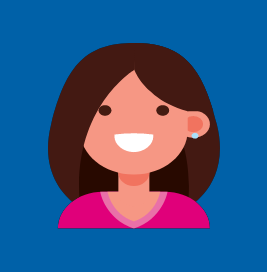
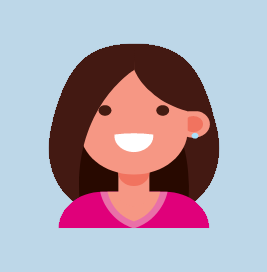
update 3

diff --git a/RouteProject/about.html b/RouteProject/about.html
@@ -45,11 +45,16 @@
                     </ul>
                 </div>
             </nav>
+        </div>
+    </header>
+    <!------------------------ End Header ------------------------>
 
-            <div class="header-content my-5 py-2">
+    <section>
+        <div class="container">
+            <div class="content my-5 py-2">
                 <div class="row">
                     <div class="col-lg-7">
-                        <div class="header-info">
+                        <div class="content-info">
                             <h2 class="main-color mb-4">Symploms Of Drinking Alarg Amount A Web Teb</h2>
                             <p>
                                 Web Teb is one of the most consunmed beverages in the world, and some may..Coffee is one of the most consumed beverages in the world.
@@ -58,74 +63,87 @@
                     </div>
 
                     <div class="col-lg-5">
-                        <div class="header-img">
+                        <div class="content-img">
                             <img src="image/user-3297.png" class="img-fluid" />
                         </div>
                     </div>
                 </div>
             </div>
         </div>
-    </header>
-    <!------------------------ End Header ------------------------>
+    </section>
 
-    <div class="container">
-
-        <div class="header-content my-5 py-2">
-            <div class="row">
-                <div class="col-lg-5">
-                    <div class="header-img">
-                        <img src="image/user-3297.png" class="img-fluid" />
+    <section>
+        <div class="container">
+            <div class="content my-5 py-2">
+                <div class="row">
+                    <div class="col-lg-5">
+                        <div class="content-img">
+                            <img src="image/user-3297.png" class="img-fluid" />
+                        </div>
                     </div>
-                </div>
 
-                <div class="col-lg-7">
-                    <div class="header-info">
-                        <h2 class="main-color mb-4">Symploms Of Drinking Alarg Amount A Web Teb</h2>
-                        <p>
-                            Web Teb is one of the most consunmed beverages in the world, and some may..Coffee is one of the most consumed beverages in the world.
-                        </p>
+                    <div class="col-lg-7">
+                        <div class="content-info">
+                            <h2 class="main-color mb-4">Symploms Of Drinking Alarg Amount A Web Teb</h2>
+                            <p>
+                                Web Teb is one of the most consunmed beverages in the world, and some may..Coffee is one of the most consumed beverages in the world.
+                            </p>
+                        </div>
+                    </div>
+
+                </div>
+            </div>
+        </div>
+    </section>
+
+
+    <section>
+        <div class="container">
+            <div class="content my-5 py-2">
+                <div class="row">
+                    <div class="col-lg-7">
+                        <div class="content-info">
+                            <h2 class="main-color mb-4">Symploms Of Drinking Alarg Amount A Web Teb</h2>
+                            <p>
+                                Web Teb is one of the most consunmed beverages in the world, and some may..Coffee is one of the most consumed beverages in the world.
+                            </p>
+                        </div>
+                    </div>
+
+                    <div class="col-lg-5">
+                        <div class="content-img">
+                            <img src="image/user-3297.png" class="img-fluid" />
+                        </div>
                     </div>
                 </div>
             </div>
         </div>
+    </section>
 
-        <div class="header-content my-5 py-2">
-            <div class="row">
-                <div class="col-lg-7">
-                    <div class="header-info">
-                        <h2 class="main-color mb-4">Symploms Of Drinking Alarg Amount A Web Teb</h2>
-                        <p>
-                            Web Teb is one of the most consunmed beverages in the world, and some may..Coffee is one of the most consumed beverages in the world.
-                        </p>
-                    </div>
-                </div>
 
-                <div class="col-lg-5">
-                    <div class="header-img">
-                        <img src="image/user-3297.png" class="img-fluid" />
+    <section>
+        <div class="container">
+            <div class="content my-5 py-2">
+                <div class="row">
+                    <div class="col-lg-5">
+                        <div class="content-img">
+                            <img src="image/user-3297.png" class="img-fluid" />
+                        </div>
                     </div>
+
+                    <div class="col-lg-7">
+                        <div class="content-info">
+                            <h2 class="main-color mb-4">Symploms Of Drinking Alarg Amount A Web Teb</h2>
+                            <p>
+                                Web Teb is one of the most consunmed beverages in the world, and some may..Coffee is one of the most consumed beverages in the world.
+                            </p>
+                        </div>
+                    </div>
+
                 </div>
             </div>
         </div>
-
-        <div class="header-content my-5 py-2">
-            <div class="row">
-                <div class="col-lg-5">
-                    <div class="header-img">
-                        <img src="image/user-3297.png" class="img-fluid" />
-                    </div>
-                </div>
-                <div class="col-lg-7">
-                    <div class="header-info">
-                        <h2 class="main-color mb-4">Symploms Of Drinking Alarg Amount A Web Teb</h2>
-                        <p>
-                            Web Teb is one of the most consunmed beverages in the world, and some may..Coffee is one of the most consumed beverages in the world.
-                        </p>
-                    </div>
-                </div>
-            </div>
-        </div>
-    </div>
+    </section>
 
 
     <footer>

diff --git a/RouteProject/home-page.html b/RouteProject/home-page.html
@@ -47,7 +47,24 @@
                 </div>
             </nav>
 
+            <div class="header-content my-5 py-2">
+                <div class="row">
+                    <div class="col-lg-7">
+                        <div class="header-info">
+                            <h2 class="main-color mb-4">Symploms Of Drinking Alarg Amount A Web Teb</h2>
+                            <p>
+                                Web Teb is one of the most consunmed beverages in the world, and some may..Coffee is one of the most consumed beverages in the world.
+                            </p>
+                        </div>
+                    </div>
 
+                    <div class="col-lg-5">
+                        <div class="header-img">
+                            <img src="image/user-3297.png" class="img-fluid" />
+                        </div>
+                    </div>
+                </div>
+            </div>
         </div>
     </header>
     <!------------------------ End Header ------------------------>
@@ -55,20 +72,28 @@
 
     <section>
         <div class="container">
-            <div class="header-content my-5 py-2">
-                <div class="row">
-                    <div class="col-lg-7">
-                        <div class="header-info">
-                            <h2 class="main-color mb-4">Symploms Of Drinking Alarg Amount A Web Teb</h2>
-                            <p>
-                                Web Teb is one of the most consunmed beverages in the world, and some may..Coffee is one of the most consumed beverages in the world.
+            <div class="row">
+                <div class="col-md-4">
+                    <div class="card card-home">
+                        <div class="card-img">
+                            <a href=""><img src="image/user-3297.png" alt="" class="img-fluid"></a>
+                        </div>
+                        <div class="card-body">
+                            <p class="card-description">
+                                Proin eget tortor risus. Pellentesque in ipsum id orci porta dapibus. Praesent sapien massa, convallis a pellentesque nec, egestas non nisi.
                             </p>
                         </div>
                     </div>
-
-                    <div class="col-lg-5">
-                        <div class="header-img">
-                            <img src="image/user-3297.png" class="img-fluid" />
+                </div>
+                <div class="col-md-4">
+                    <div class="card card-home">
+                        <div class="card-img">
+                            <a href=""></a><img src="image/user-3297.png" alt="" class="img-fluid"></a>
+                        </div>
+                        <div class="card-body">
+                            <p class="card-description">
+                                Proin eget tortor risus. Pellentesque in ipsum id orci porta dapibus. Praesent sapien massa, convallis a pellentesque nec, egestas non nisi.
+                            </p>
                         </div>
                     </div>
                 </div>
@@ -76,29 +101,38 @@
         </div>
     </section>
 
+    <div class="container">
 
-    <section>
-        <div class="container">
-            <div class="header-content my-5 py-2">
+        <section>
+            <div class="container">
                 <div class="row">
-                    <div class="col-lg-7">
-                        <div class="header-info">
-                            <h2 class="main-color mb-4">Symploms Of Drinking Alarg Amount A Web Teb</h2>
-                            <p>
-                                Web Teb is one of the most consunmed beverages in the world, and some may..Coffee is one of the most consumed beverages in the world.
-                            </p>
+                    <div class="col-md-4">
+                        <div class="card card-home">
+                            <div class="card-img">
+                                <a href=""><img src="image/man.png" alt="" class="img-fluid"></a>
+                            </div>
                         </div>
                     </div>
-
-                    <div class="col-lg-5">
-                        <div class="header-img">
-                            <img src="image/user-3297.png" class="img-fluid" />
+                    <div class="col-md-4">
+                        <div class="card card-home">
+                            <div class="card-img">
+                                <a href=""></a><img src="image/woman.png" alt="" class="img-fluid"></a>
+                            </div>
+                        </div>
+                    </div>
+                    <div class="col-md-4">
+                        <div class="card card-home">
+                            <div class="card-img">
+                                <a href=""><img src="image/child.png" alt="" class="img-fluid"></a>
+                            </div>
                         </div>
                     </div>
                 </div>
             </div>
-        </div>
-    </section>
+        </section>
+
+    </div>
+
 
 
     <footer>

diff --git a/RouteProject/welcome.html b/RouteProject/welcome.html
@@ -1,5 +1,6 @@
 <!DOCTYPE html>
 <html lang="en">
+
 <head>
     <title>Welcome to Web Teb</title>
 
@@ -18,7 +19,8 @@
     <!-- Page Style File -->
     <link rel="stylesheet" href="css/style.css">
 </head>
-<body>
+
+<body background="image/bg.png">
 
     <div>
         <a id="sgingupBtn" class="btn">Sign Up</a>
@@ -26,13 +28,14 @@
     <div>
         <a id="sginginBtn" class="btn">Sign In</a>
     </div>
-    
 
 
 
-    
+
+
     <!-- Bootstrap File-->
     <script src="js/bootstrap.min.js"></script>
 
 </body>
+
 </html>
